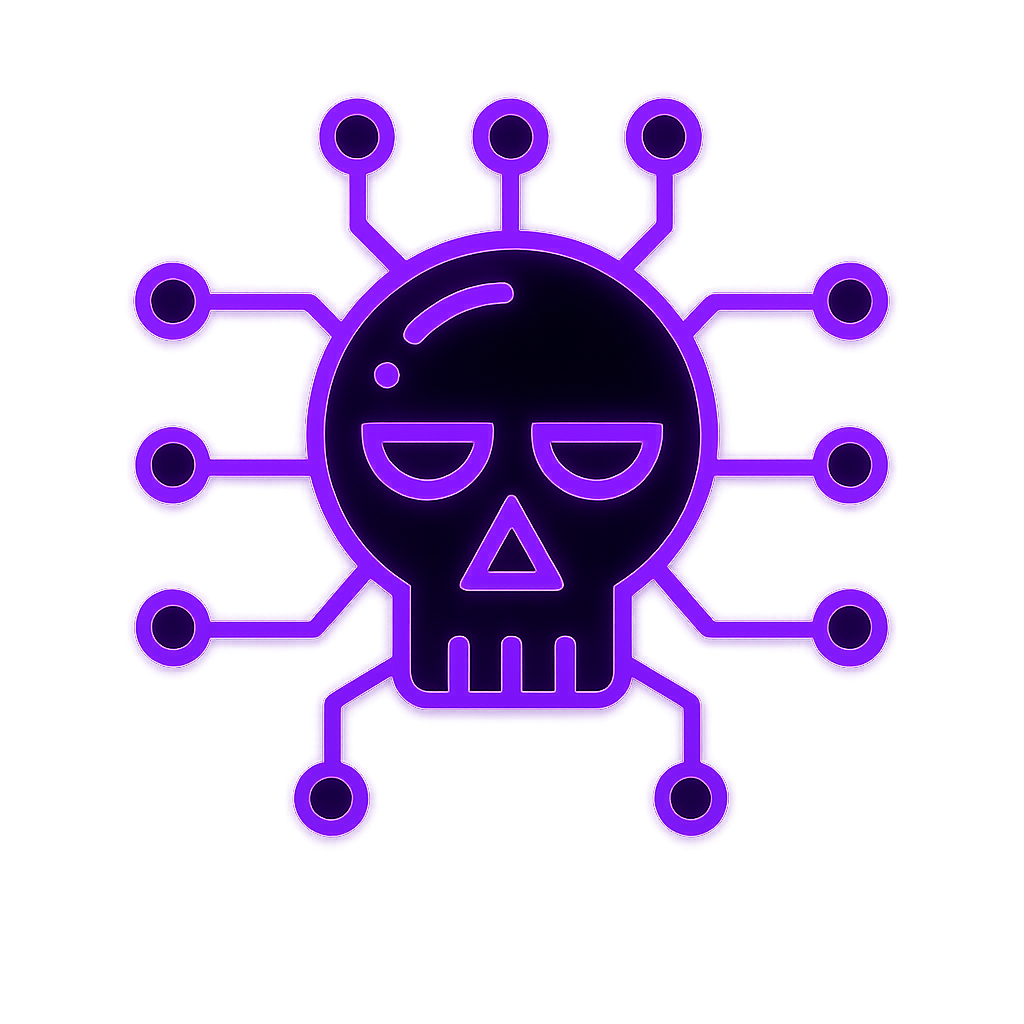
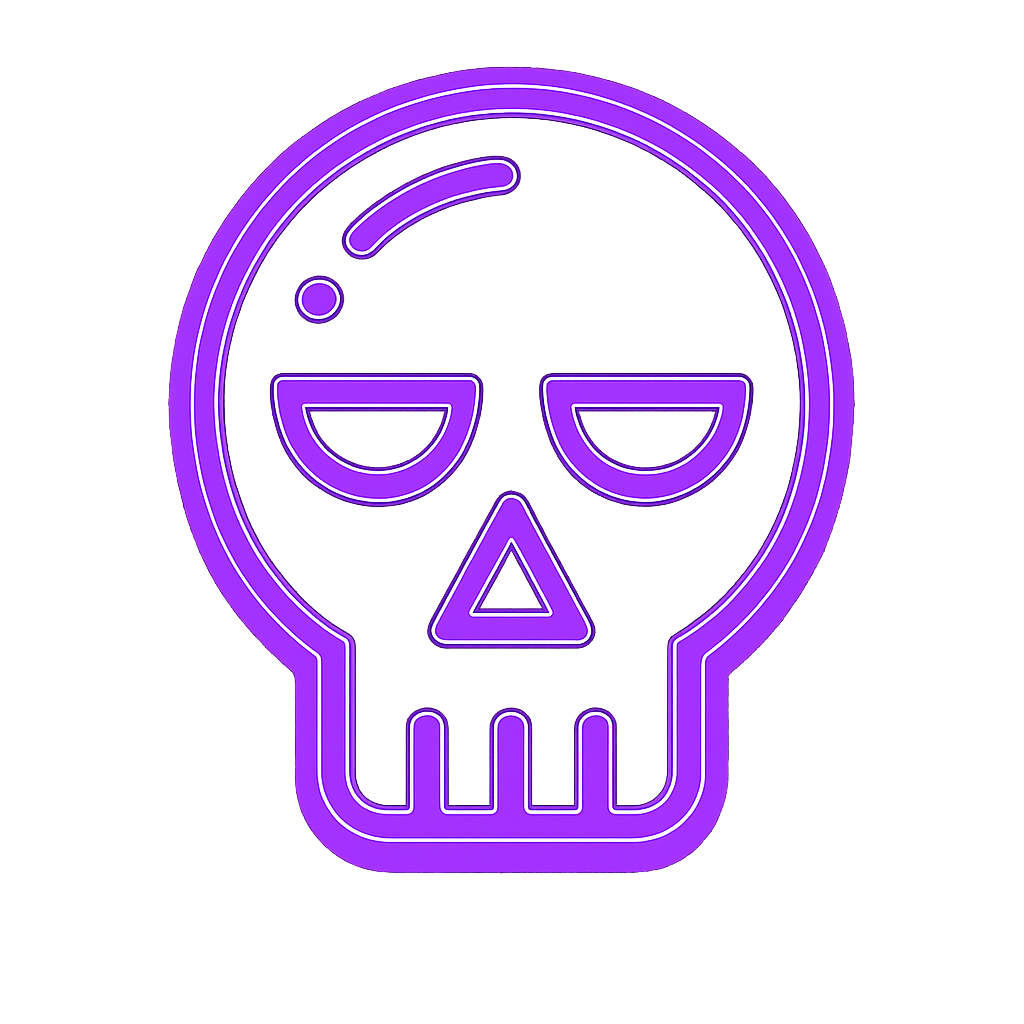
Atualização do site

diff --git a/chars/scott.html b/chars/scott.html
@@ -158,17 +158,17 @@
       <div class="attribute-head">
         <span class="attribute-icon"><i class="fa-solid fa-hand-fist"></i></span>
         <div class="attribute-name-wrap"><span>Força</span></div>
-        <strong>68/100</strong>
+        <strong>77/100</strong>
       </div>
-      <div class="attribute-track"><div class="attribute-fill" style="width:94%"></div></div>
+      <div class="attribute-track"><div class="attribute-fill" style="width:77%"></div></div>
     </div>
     <div class="attribute-item">
       <div class="attribute-head">
         <span class="attribute-icon"><i class="fa-solid fa-shield-halved"></i></span>
         <div class="attribute-name-wrap"><span>Defesa</span></div>
-        <strong>76/100</strong>
+        <strong>80/100</strong>
       </div>
-      <div class="attribute-track"><div class="attribute-fill" style="width:96%"></div></div>
+      <div class="attribute-track"><div class="attribute-fill" style="width:80%"></div></div>
     </div>
     <div class="attribute-item">
       <div class="attribute-head">
@@ -176,7 +176,7 @@
         <div class="attribute-name-wrap"><span>Agilidade</span></div>
         <strong>57/100</strong>
       </div>
-      <div class="attribute-track"><div class="attribute-fill" style="width:68%"></div></div>
+      <div class="attribute-track"><div class="attribute-fill" style="width: 57%;"></div></div>
     </div>
     <div class="attribute-item">
       <div class="attribute-head">
@@ -184,7 +184,7 @@
         <div class="attribute-name-wrap"><span>Controle de Energia</span></div>
         <strong>75/100</strong>
       </div>
-      <div class="attribute-track"><div class="attribute-fill" style="width:74%"></div></div>
+      <div class="attribute-track"><div class="attribute-fill" style="width: 75%;"></div></div>
     </div>
   </div>
 </section>
@@ -267,10 +267,10 @@
     <div class="section-line"></div>
   </div>
   <div class="gallery-grid">
-    <div class="gallery-item"><div class="gallery-placeholder"><i class="fa-solid fa-image"></i><span>Em breve</span></div></div>
-    <div class="gallery-item"><div class="gallery-placeholder"><i class="fa-solid fa-image"></i><span>Em breve</span></div></div>
-    <div class="gallery-item"><div class="gallery-placeholder"><i class="fa-solid fa-image"></i><span>Em breve</span></div></div>
-    <div class="gallery-item"><div class="gallery-placeholder"><i class="fa-solid fa-image"></i><span>Em breve</span></div></div>
+    <div class="gallery-item"><img src="../assets/images/characters/scott1.png" alt="Scott Smith"></div>
+    <div class="gallery-item"><img src="../assets/images/characters/scott2.png" alt="Scott Smith"></div>
+    <div class="gallery-item"><img src="../assets/images/characters/scott3.png" alt="Scott Smith"></div>
+    <div class="gallery-item"><img src="../assets/images/characters/scott4.png" alt="Scott Smith"></div>
   </div>
 </section>
 

diff --git a/chars/anny.html b/chars/anny.html
@@ -301,10 +301,10 @@
     <div class="section-line"></div>
   </div>
   <div class="gallery-grid">
-    <div class="gallery-item"><img src="../assets/images/characters/anny1.png" alt="Philip Stills"></div>
-    <div class="gallery-item"><img src="../assets/images/characters/anny2.png" alt="Philip Stills"></div>
-    <div class="gallery-item"><img src="../assets/images/characters/anny3.png" alt="Philip Stills"></div>
-    <div class="gallery-item"><img src="../assets/images/characters/anny4.png" alt="Philip Stills"></div>
+    <div class="gallery-item"><img src="../assets/images/characters/anny1.png" alt="Anny Pewter"></div>
+    <div class="gallery-item"><img src="../assets/images/characters/anny2.png" alt="Anny Pewter"></div>
+    <div class="gallery-item"><img src="../assets/images/characters/anny3.png" alt="Anny Pewter"></div>
+    <div class="gallery-item"><img src="../assets/images/characters/anny4.png" alt="Anny Pewter"></div>
   </div>
 </section>
 